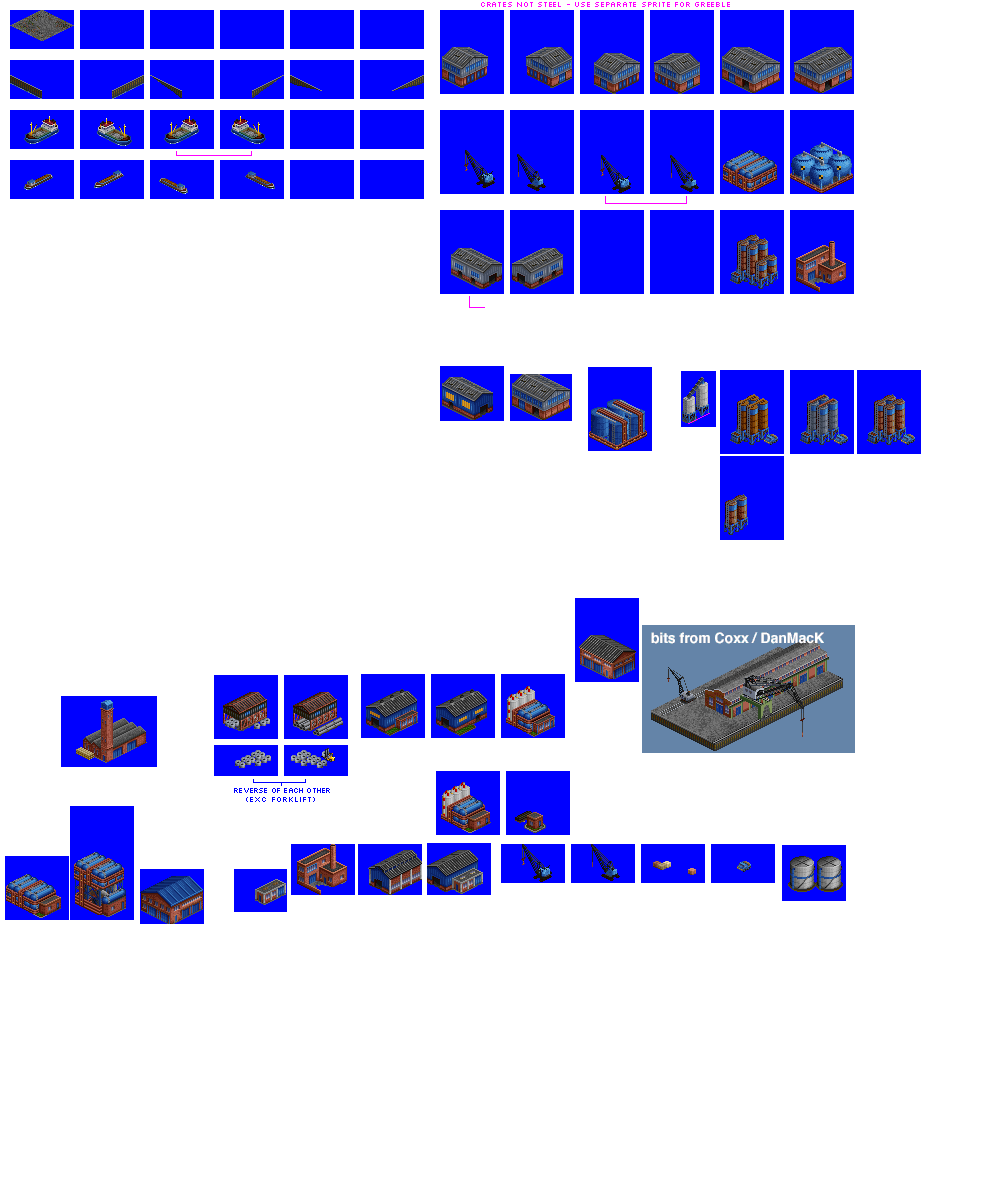
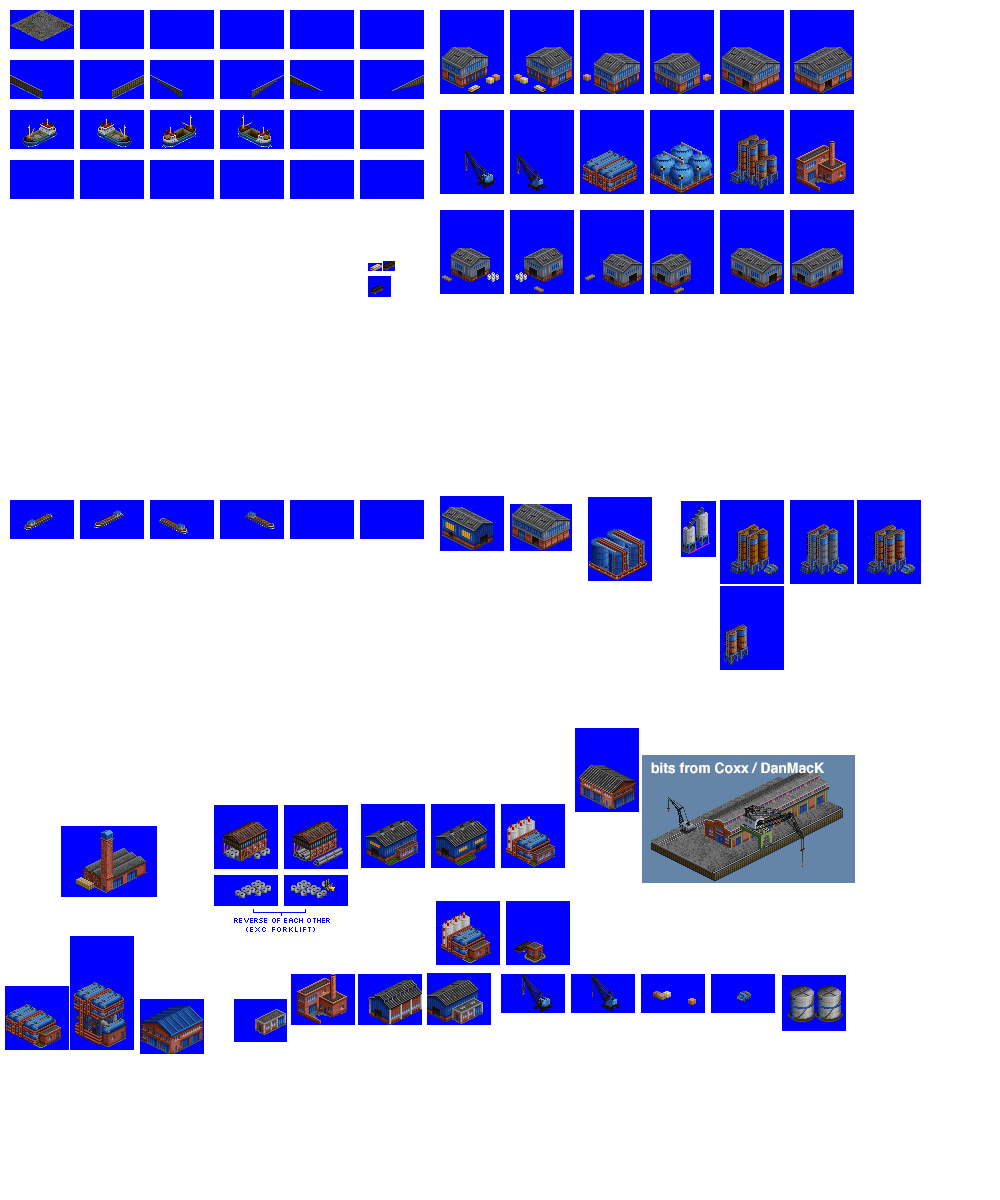
Change: Port sprites complete

diff --git a/src/industries/port.py b/src/industries/port.py
@@ -140,60 +140,73 @@ spriteset_warehouse_half_se_nw = industry.add_spriteset(
 spriteset_warehouse_half_sw_ne = industry.add_spriteset(
     sprites=[(650, 10, 64, 84, -31, -61)],
 )
-spriteset_warehouse_nw_se = industry.add_spriteset(
+spriteset_warehouse_full_nw_se = industry.add_spriteset(
     sprites=[(720, 10, 64, 84, -31, -61)],
 )
-spriteset_warehouse_ne_sw = industry.add_spriteset(
+spriteset_warehouse_full_ne_sw = industry.add_spriteset(
     sprites=[(790, 10, 64, 84, -31, -61)],
 )
-spriteset_shed_nw_se = industry.add_spriteset(
+spriteset_shed_half_nw_se = industry.add_spriteset(
     sprites=[(440, 210, 64, 84, -31, -61)],
 )
-spriteset_shed_ne_sw = industry.add_spriteset(
+spriteset_shed_half_ne_sw = industry.add_spriteset(
     sprites=[(510, 210, 64, 84, -31, -61)],
+)
+spriteset_shed_half_se_nw = industry.add_spriteset(
+    sprites=[(580, 210, 64, 84, -31, -61)],
+)
+spriteset_shed_half_sw_ne = industry.add_spriteset(
+    sprites=[(650, 210, 64, 84, -31, -61)],
+)
+spriteset_shed_full_nw_se = industry.add_spriteset(
+    sprites=[(720, 210, 64, 84, -31, -61)],
+)
+spriteset_shed_full_ne_sw = industry.add_spriteset(
+    sprites=[(790, 210, 64, 84, -31, -61)],
 )
 # horizontal tanks use the same sprite, but adjusted offsets for each coast
 spriteset_tanks_horizontal_nw_se = industry.add_spriteset(
-    sprites=[(720, 110, 64, 84, -31, -61)],
+    sprites=[(580, 110, 64, 84, -31, -61)],
 )
 spriteset_tanks_horizontal_ne_sw = industry.add_spriteset(
-    sprites=[(720, 110, 64, 84, -27, -61)],
+    sprites=[(580, 110, 64, 84, -27, -61)],
 )
 spriteset_tanks_horizontal_se_nw = industry.add_spriteset(
-    sprites=[(720, 110, 64, 84, -30, -61)],
+    sprites=[(580, 110, 64, 84, -30, -61)],
 )
 spriteset_tanks_horizontal_sw_ne = industry.add_spriteset(
-    sprites=[(720, 110, 64, 84, -28, -61)],
+    sprites=[(580, 110, 64, 84, -28, -61)],
 )
 # sphere tanks use the same sprite, but adjusted offsets for each coast
 spriteset_tanks_sphere_nw_se = industry.add_spriteset(
-    sprites=[(790, 110, 64, 84, -31, -61)],
+    sprites=[(650, 110, 64, 84, -31, -61)],
 )
 spriteset_tanks_sphere_ne_sw = industry.add_spriteset(
-    sprites=[(790, 110, 64, 84, -30, -61)],
+    sprites=[(650, 110, 64, 84, -30, -61)],
 )
 spriteset_tanks_sphere_se_nw = industry.add_spriteset(
-    sprites=[(790, 110, 64, 84, -30, -61)],
+    sprites=[(650, 110, 64, 84, -30, -61)],
 )
 spriteset_tanks_sphere_sw_ne = industry.add_spriteset(
-    sprites=[(790, 110, 64, 84, -31, -61)],
+    sprites=[(650, 110, 64, 84, -31, -61)],
 )
 # sphere tanks use the same sprite, but adjusted offsets for each coast
 spriteset_silos_nw_se = industry.add_spriteset(
-    sprites=[(720, 210, 64, 84, -31, -61)],
+    sprites=[(720, 110, 64, 84, -31, -61)],
 )
 spriteset_silos_ne_sw = industry.add_spriteset(
-    sprites=[(720, 210, 64, 84, -31, -61)],
+    sprites=[(720, 110, 64, 84, -31, -61)],
 )
 spriteset_silos_se_nw = industry.add_spriteset(
-    sprites=[(720, 210, 64, 84, -33, -60)],
+    sprites=[(720, 110, 64, 84, -33, -60)],
 )
 spriteset_silos_sw_ne = industry.add_spriteset(
-    sprites=[(720, 210, 64, 84, -33, -60)],
+    sprites=[(720, 110, 64, 84, -33, -60)],
 )
 spriteset_gatehouse = industry.add_spriteset(
-    sprites=[(790, 210, 64, 84, -31, -61)],
+    sprites=[(790, 110, 64, 84, -31, -61)],
 )
+# only 2 angles for crawler crane, to keep things visually simple
 spriteset_crawler_crane_ne_sw = industry.add_spriteset(
     sprites=[(440, 110, 64, 84, -31, -43)],
     zoffset=18,
@@ -202,25 +215,30 @@ spriteset_crawler_crane_nw_se = industry.add_spriteset(
     sprites=[(510, 110, 64, 84, -31, -43)],
     zoffset=18,
 )
-spriteset_crawler_crane_se_nw = industry.add_spriteset(
-    sprites=[(580, 110, 64, 84, -31, -43)],
-    zoffset=18,
+# there are 2 variations of the ship, (reversed, unreversed) with coast appropriate offsets for each
+spriteset_ship_1_ne_sw = industry.add_spriteset(
+    sprites=[(10, 110, 64, 39, -40, -18)],
 )
-spriteset_crawler_crane_sw_ne = industry.add_spriteset(
-    sprites=[(650, 110, 64, 84, -31, -43)],
-    zoffset=18,
+spriteset_ship_1_nw_se = industry.add_spriteset(
+    sprites=[(80, 110, 64, 39, -22, -18)],
 )
-spriteset_ship_ne_sw = industry.add_spriteset(
-    sprites=[(10, 110, 64, 39, -15, -11)],
+spriteset_ship_1_sw_ne = industry.add_spriteset(
+    sprites=[(150, 110, 64, 39, -30, -22)],
 )
-spriteset_ship_nw_se = industry.add_spriteset(
-    sprites=[(80, 110, 64, 39, -20, -15)],
+spriteset_ship_1_se_nw = industry.add_spriteset(
+    sprites=[(220, 110, 64, 39, -27, -20)],
 )
-spriteset_ship_sw_ne = industry.add_spriteset(
-    sprites=[(150, 110, 64, 39, -15, -11)],
+spriteset_ship_2_ne_sw = industry.add_spriteset(
+    sprites=[(150, 110, 64, 39, -40, -18)],
 )
-spriteset_ship_se_nw = industry.add_spriteset(
-    sprites=[(220, 110, 64, 39, -25, -20)],
+spriteset_ship_2_nw_se = industry.add_spriteset(
+    sprites=[(220, 110, 64, 39, -22, -18)],
+)
+spriteset_ship_2_sw_ne = industry.add_spriteset(
+    sprites=[(10, 110, 64, 39, -30, -22)],
+)
+spriteset_ship_2_se_nw = industry.add_spriteset(
+    sprites=[(80, 110, 64, 39, -27, -20)],
 )
 industry.add_spritelayout(
     id="port_spritelayout_water_empty",
@@ -255,30 +273,6 @@ industry.add_magic_spritelayout(
 )
 industry.add_magic_spritelayout(
     type="jetty_auto_orient_to_coast_direction",
-    base_id="port_spritelayout_crane_parallel_auto_orient",
-    tile="port_tile_1",
-    config={
-        "ground_sprite": spriteset_ground_empty,  # should always be empty for this magic spritelayout
-        "foundation_sprites": [spriteset_jetty_ne_sw, spriteset_jetty_se_nw],
-        "jetty_top_sprites": [spriteset_concrete],
-        "building_sprites": {
-            "se": [
-                spriteset_crawler_crane_se_nw,
-            ],
-            "sw": [
-                spriteset_crawler_crane_ne_sw,
-            ],
-            "nw": [
-                spriteset_crawler_crane_se_nw,
-            ],
-            "ne": [
-                spriteset_crawler_crane_ne_sw,
-            ],
-        },
-    },
-)
-industry.add_magic_spritelayout(
-    type="jetty_auto_orient_to_coast_direction",
     base_id="port_spritelayout_crane_orthogonal_auto_orient",
     tile="port_tile_1",
     config={
@@ -293,10 +287,10 @@ industry.add_magic_spritelayout(
                 spriteset_crawler_crane_nw_se,
             ],
             "nw": [
-                spriteset_crawler_crane_sw_ne,
+                spriteset_crawler_crane_ne_sw,
             ],
             "ne": [
-                spriteset_crawler_crane_se_nw,
+                spriteset_crawler_crane_nw_se,
             ],
         },
     },
@@ -407,23 +401,23 @@ industry.add_magic_spritelayout(
         "jetty_top_sprites": [spriteset_concrete],
         "building_sprites": {
             "se": [
-                spriteset_warehouse_nw_se,
+                spriteset_warehouse_full_nw_se,
             ],
             "sw": [
-                spriteset_warehouse_ne_sw,
+                spriteset_warehouse_full_ne_sw,
             ],
             "nw": [
-                spriteset_warehouse_nw_se,
+                spriteset_warehouse_full_nw_se,
             ],
             "ne": [
-                spriteset_warehouse_ne_sw,
+                spriteset_warehouse_full_ne_sw,
             ],
         },
     },
 )
 industry.add_magic_spritelayout(
     type="jetty_auto_orient_to_coast_direction",
-    base_id="port_spritelayout_shed_auto_orient",
+    base_id="port_spritelayout_shed_half_1_auto_orient",
     tile="port_tile_1",
     config={
         "ground_sprite": spriteset_ground_empty,  # should always be empty for this magic spritelayout
@@ -431,19 +425,19 @@ industry.add_magic_spritelayout(
         "jetty_top_sprites": [spriteset_concrete],
         "building_sprites": {
             "se": [
-                spriteset_shed_nw_se,
+                spriteset_shed_half_nw_se,
                 spriteset_crawler_crane_nw_se,
             ],
             "sw": [
-                spriteset_shed_ne_sw,
+                spriteset_shed_half_ne_sw,
                 spriteset_crawler_crane_ne_sw,
             ],
             "nw": [
-                spriteset_shed_nw_se,
+                spriteset_shed_half_se_nw,
                 spriteset_crawler_crane_nw_se,
             ],
             "ne": [
-                spriteset_shed_ne_sw,
+                spriteset_shed_half_sw_ne,
                 spriteset_crawler_crane_ne_sw,
             ],
         },
@@ -451,7 +445,64 @@ industry.add_magic_spritelayout(
 )
 industry.add_magic_spritelayout(
     type="jetty_auto_orient_to_coast_direction",
-    base_id="port_spritelayout_water_ship_auto_orient",
+    base_id="port_spritelayout_shed_half_2_auto_orient",
+    tile="port_tile_1",
+    config={
+        "ground_sprite": spriteset_ground_empty,  # should always be empty for this magic spritelayout
+        "foundation_sprites": [spriteset_jetty_ne_sw, spriteset_jetty_se_nw],
+        "jetty_top_sprites": [spriteset_concrete],
+        # reversed variant of the half-shed for alternate end of the shed
+        "building_sprites": {
+            "se": [
+                spriteset_shed_half_se_nw,
+                spriteset_crawler_crane_nw_se,
+            ],
+            "sw": [
+                spriteset_shed_half_sw_ne,
+                spriteset_crawler_crane_ne_sw,
+            ],
+            "nw": [
+                spriteset_shed_half_nw_se,
+                spriteset_crawler_crane_nw_se,
+            ],
+            "ne": [
+                spriteset_shed_half_ne_sw,
+                spriteset_crawler_crane_ne_sw,
+            ],
+        },
+    },
+)
+industry.add_magic_spritelayout(
+    type="jetty_auto_orient_to_coast_direction",
+    base_id="port_spritelayout_shed_full_auto_orient",
+    tile="port_tile_1",
+    config={
+        "ground_sprite": spriteset_ground_empty,  # should always be empty for this magic spritelayout
+        "foundation_sprites": [spriteset_jetty_ne_sw, spriteset_jetty_se_nw],
+        "jetty_top_sprites": [spriteset_concrete],
+        "building_sprites": {
+            "se": [
+                spriteset_shed_full_nw_se,
+                spriteset_crawler_crane_nw_se,
+            ],
+            "sw": [
+                spriteset_shed_full_ne_sw,
+                spriteset_crawler_crane_ne_sw,
+            ],
+            "nw": [
+                spriteset_shed_full_nw_se,
+                spriteset_crawler_crane_nw_se,
+            ],
+            "ne": [
+                spriteset_shed_full_ne_sw,
+                spriteset_crawler_crane_ne_sw,
+            ],
+        },
+    },
+)
+industry.add_magic_spritelayout(
+    type="jetty_auto_orient_to_coast_direction",
+    base_id="port_spritelayout_water_ship_1_auto_orient",
     tile="port_tile_1",
     config={
         "ground_sprite": sprite_ground,
@@ -459,16 +510,40 @@ industry.add_magic_spritelayout(
         "jetty_top_sprites": [],
         "building_sprites": {
             "se": [
-                spriteset_ship_nw_se,  # wrong? or needs offsets adjusted?
+                spriteset_ship_1_nw_se,
             ],
             "sw": [
-                spriteset_ship_ne_sw,  # wrong? or needs offsets adjusted?
+                spriteset_ship_1_ne_sw,
             ],
             "nw": [
-                spriteset_ship_se_nw,  # wrong? or needs offsets adjusted?
+                spriteset_ship_1_se_nw,
             ],
             "ne": [
-                spriteset_ship_sw_ne,  # wrong? or needs offsets adjusted?
+                spriteset_ship_1_sw_ne,
+            ],
+        },
+    },
+)
+industry.add_magic_spritelayout(
+    type="jetty_auto_orient_to_coast_direction",
+    base_id="port_spritelayout_water_ship_2_auto_orient",
+    tile="port_tile_1",
+    config={
+        "ground_sprite": sprite_ground,
+        "foundation_sprites": [],
+        "jetty_top_sprites": [],
+        "building_sprites": {
+            "se": [
+                spriteset_ship_2_nw_se,
+            ],
+            "sw": [
+                spriteset_ship_2_ne_sw,
+            ],
+            "nw": [
+                spriteset_ship_2_se_nw,
+            ],
+            "ne": [
+                spriteset_ship_2_sw_ne,
             ],
         },
     },
@@ -488,14 +563,14 @@ industry.add_industry_jetty_layout(
         (1, 2, "port_spritelayout_warehouse_half_auto_orient"),
         (1, 3, "port_spritelayout_warehouse_full_auto_orient"),
         (1, 4, "port_spritelayout_warehouse_half_auto_orient"),
-        (1, 5, "port_spritelayout_water_ship_auto_orient"),
+        (1, 5, "port_spritelayout_water_ship_1_auto_orient"),
         (1, 6, "spritelayout_null_water"),
         (1, 7, "spritelayout_null_water"),
         # additional spacing at end of jetty (for better clearance in map edge context), only one tile needed for this
         (1, 8, "spritelayout_null_water"),
         # ensure spacing from coast, to improve map-gen buildabilty
-        (2, 2, "port_spritelayout_shed_auto_orient"),
-        (2, 3, "port_spritelayout_shed_auto_orient"),
+        (2, 2, "port_spritelayout_shed_half_2_auto_orient"),
+        (2, 3, "port_spritelayout_shed_full_auto_orient"),
         (2, 4, "port_spritelayout_warehouse_half_auto_orient"),
         (2, 5, "port_spritelayout_tanks_small_auto_orient"),
         (2, 6, "port_spritelayout_tanks_sphere_auto_orient"),
@@ -518,15 +593,15 @@ industry.add_industry_jetty_layout(
         (1, 2, "port_spritelayout_silos_1_auto_orient"),
         (1, 3, "port_spritelayout_silos_1_auto_orient"),
         (1, 4, "port_spritelayout_warehouse_half_auto_orient"),
-        (1, 5, "port_spritelayout_shed_auto_orient"),
-        (1, 6, "port_spritelayout_shed_auto_orient"),
+        (1, 5, "port_spritelayout_shed_full_auto_orient"),
+        (1, 6, "port_spritelayout_shed_half_1_auto_orient"),
         (1, 7, "spritelayout_null_water"),
         (2, 0, "port_spritelayout_coast_gatehouse"),
         (2, 1, "port_spritelayout_warehouse_full_auto_orient"),
         (2, 2, "port_spritelayout_warehouse_half_auto_orient"),
         (2, 3, "port_spritelayout_warehouse_full_auto_orient"),
         (2, 4, "port_spritelayout_warehouse_half_auto_orient"),
-        (2, 5, "port_spritelayout_water_ship_auto_orient"),
+        (2, 5, "port_spritelayout_water_ship_2_auto_orient"),
         (2, 6, "spritelayout_null_water"),
         (2, 7, "spritelayout_null_water"),
         # additional spacing at end of jetty (for better clearance in map edge context), only one tile needed for this

diff --git a/src/industries/wharf.py b/src/industries/wharf.py
@@ -15,7 +15,7 @@ industry = IndustryPrimaryPort(
     fund_cost_multiplier="152",
     override_default_construction_states=True,
     primary_production_random_factor_set="wide_range",
-    sprites_complete=True,
+    sprites_complete=False,
 )
 
 industry.enable_in_economy(
